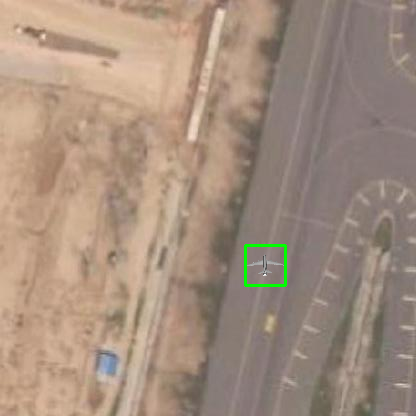
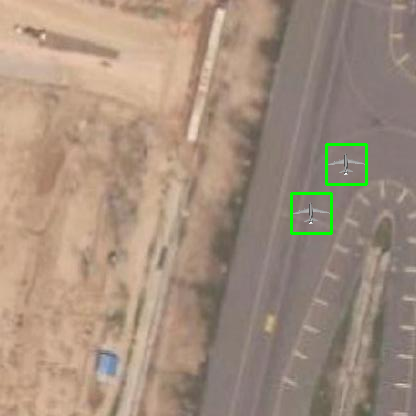
With Mouse Click
With Mouse Click Functionality Added

Changed region(s): [[0.6875, 0.3438, 0.9062, 0.5625], [0.5625, 0.5625, 0.6875, 0.6875]]

diff --git a/overlay_img.py b/overlay_img.py
@@ -7,15 +7,17 @@ from tqdm import tqdm
 
 
 # Useful Constants and Variables
-bacground_img = "base_imgs/satellite_img1.jpg"
+background_img = "base_imgs/satellite_img1.jpg"
 overlayimg_folderName = 'overlayImg'
 output_folderName = 'satelliteImg_dataset'
 
 cropping_list = []
+coordinates_list = []
 DATASET_DIR = './'
 IMG_EXTENSION = '.jpg'
+base_img = cv2.imread(background_img, 1)
 
-infile = os.path.join(DATASET_DIR, bacground_img)
+infile = os.path.join(DATASET_DIR, background_img)
 
 def overlay_image_alpha(img, img_overlay, x, y, alpha_mask=None):
 
@@ -46,16 +48,55 @@ def overlay_image_alpha(img, img_overlay, x, y, alpha_mask=None):
         (1.0 - alpha) * img_crop if alpha is not None else img_overlay_crop
 
     return img_crop[:]
-
-########################################################################################
  
 def pascal_voc_to_yolo(x1, y1, x2, y2, image_w, image_h):
     return [((x2 + x1)/(2*image_w)), ((y2 + y1)/(2*image_h)), (x2 - x1)/image_w, (y2 - y1)/image_h]
- 
-#######################################################################################  
+
+def click_func(event, x, y, flags, param):
+    """
+    Click function that fire-up against the user click event
+    :param event:
+    :param x:
+    :param y:
+    :param flags:
+    :param param:
+    :return:
+    """
+    global cropping_list
+    if event == cv2.EVENT_LBUTTONDOWN:
+        x1 = x - CHOP_SIZE // 2
+        x2 = x + CHOP_SIZE // 2
+        y1 = y - CHOP_SIZE // 2
+        y2 = y + CHOP_SIZE // 2
+
+        cv2.rectangle(param, (x1, y1), (x2, y2), (0, 255, 0), thickness=3)
+        cv2.imshow(IMG_NAME, param)
+        cropping_list.append([x1, y1, x2, y2])
+
+def coordinates_on_click(event, x, y, flags, params):
+    global coordinates_list
+
+    if event == cv2.EVENT_LBUTTONDOWN:
+        print(x, ' ', y)
+        # displaying the coordinates on the image window
+        font = cv2.FONT_HERSHEY_SIMPLEX
+        cv2.putText(img, str('.'), (x,y), font, 1, (0, 255, 0), 8)
+        cv2.imshow('image', params)
+        coordinates_list.append([x,y])
+
+def with_click(event, x, y, flags, params):
+    global coordinates_list
+    if event == cv2.EVENT_LBUTTONDOWN:
+    
+        print(x, ' ', y)
+        # displaying the coordinates on the image window
+        font = cv2.FONT_HERSHEY_SIMPLEX
+        cv2.putText(base_img, str('.'), (x,y), font, 1, (0, 255, 0), 8)
+        cv2.imshow('image', base_img)
+        coordinates_list.append([x,y]) 
 
 
-def without_click(param,overlayimg_list):
+def dataset_labels_gen(param,overlayimg_list,coordinates_list):
 
     global cropping_list
     # if event == cv2.EVENT_LBUTTONDOWN:
@@ -67,67 +108,44 @@ def without_click(param,overlayimg_list):
 
         bg = Image.open(param, 'r')
         
-        airplane_points = 240
-        
-        # for i in range(1, 5):
-
-        # airplane_points += 80
+        # Make the image, starting with all transparent (alpha=0)
         obj_img = Image.new('RGBA', (416, 416), (0, 0, 0, 0))
         back = obj_img.paste(bg, (0, 0))
-        front = obj_img.paste(fornt_img, (airplane_points, airplane_points), mask=fornt_img)
-
+        
+        for obj_pt in coordinates_list:
+            front = obj_img.paste(fornt_img, (obj_pt[0], obj_pt[1]), mask=fornt_img)
+        
         obj_img_cv = np.array(obj_img)
 
         offset = 5
         # Getting size of the image
         bg_img_h, bg_img_w, _ = obj_img_cv.shape
-        # print(bg_img_h, bg_img_w)
         f_img_h, f_img_w = fornt_img.size
-        # print(f_img_h, f_img_w)
-
-        # cv2.rectangle(obj_img_cv, (airplane_points, airplane_points), (airplane_points+50, airplane_points+50), (0, 255, 0), 2)
         
-        cv2.rectangle(obj_img_cv, (airplane_points+offset, airplane_points+offset), 
-                    (airplane_points+f_img_h-offset, airplane_points+f_img_w-offset), 
-                    (0, 255, 0), 2)
+        for obj_pt in coordinates_list:
+            cv2.rectangle(obj_img_cv, (obj_pt[0]+offset, obj_pt[1]+offset), 
+                        (obj_pt[0]+f_img_h-offset, obj_pt[1]+f_img_w-offset), 
+                        (0, 255, 0), 2)
         
         obj_img_cv_bgr = cv2.cvtColor(obj_img_cv, cv2.COLOR_RGB2BGR)
 
-        
         cv2.imwrite(output_folderName+'/syn_'+base_name, obj_img_cv_bgr)
 
-        
-        bb = pascal_voc_to_yolo(airplane_points+offset, airplane_points+offset,
-                                airplane_points+f_img_h-offset, airplane_points+f_img_w-offset,
-                                bg_img_h, bg_img_w)
-        # print(bb)
-        ###################################
+
         # Creating bounding box as txt file
-        ###################################
+        
+        for obj_pt in coordinates_list:
+            bb = pascal_voc_to_yolo(obj_pt[0]+offset, obj_pt[1]+offset,
+                                    obj_pt[0]+f_img_h-offset, obj_pt[1]+f_img_w-offset,
+                                    bg_img_h, bg_img_w)
 
-        txt_file = open(output_folderName+'/syn_'+base_name[:-4]+'.txt', 'w')
-        # txt_file.write('0 ' + str(airplane_points+offset) + ' ' + str(airplane_points+offset) + ' ' + str(airplane_points+50-offset) + ' ' + str(airplane_points+50-offset))
-        # txt_file.write(str(obj_id)+' '+str(bb[0])+' '+str(bb[1])+' '+str(bb[2])+' '+str(bb[3])+'\n')
-        txt_file.write('0 '+str(bb[0])+' '+str(bb[1])+' '+str(bb[2])+' '+str(bb[3])+'\n')
-        txt_file.close()
-
+            txt_file = open(output_folderName+'/syn_'+base_name[:-4]+'.txt', 'a')
+            txt_file.write('0 '+str(bb[0])+' '+str(bb[1])+' '+str(bb[2])+' '+str(bb[3])+'\n')
+            txt_file.close()
 
         txt_file_classes = open(output_folderName+'/classes.txt', 'w')
         txt_file_classes.write('airplane')
         txt_file_classes.close()
-
-
-        # airplane_points += 80
-
-
-def show_loading():
-
-    img_progress = np.ones(shape=(64, 64, 1))
-    cv2.putText(img_progress, 'WORKING ON IMAGE, PLEASE WEIGHT',
-                (0, 32),
-                cv2.FONT_HERSHEY_SIMPLEX, 1,
-                (255, 255, 255,), 1, cv2.LINE_AA, False)
-    # cv2.imshow('Loading', img_progress)
 
 
 def overlayimg_make():
@@ -137,11 +155,36 @@ def overlayimg_make():
     for f in os.listdir(dir):
         os.remove(os.path.join(dir,f))
 
-    overlay_imgs = glob.glob(overlayimg_folderName+'/*.png')
-    # print(overlay_imgs)
+    overlay_imgs_list = glob.glob(overlayimg_folderName+'/*.png')
+    # print(overlay_imgs_list)
 
-    without_click(infile,overlay_imgs)
-    
-    
+    cv2.imshow('image', base_img)
+    cv2.setMouseCallback('image', with_click)
+    cv2.waitKey(0)
+    cv2.destroyAllWindows()
+    print(coordinates_list)
+
+    dataset_labels_gen(infile,overlay_imgs_list,coordinates_list)
+
+    # dataset_labels_gen(infile,overlay_imgs_list,coordinates_list)
+        
 if __name__ == '__main__':
+    # click_coordinates()
+    # base_img = cv2.imread(background_img, 1)
     overlayimg_make()
+
+
+
+
+
+
+
+
+# def show_loading():
+
+#     img_progress = np.ones(shape=(64, 64, 1))
+#     cv2.putText(img_progress, 'WORKING ON IMAGE, PLEASE WEIGHT',
+#                 (0, 32),
+#                 cv2.FONT_HERSHEY_SIMPLEX, 1,
+#                 (255, 255, 255,), 1, cv2.LINE_AA, False)
+#     # cv2.imshow('Loading', img_progress)

diff --git a/tempCodeRunnerFile.py b/tempCodeRunnerFile.py
@@ -1,0 +1,1 @@
+obj_pt
